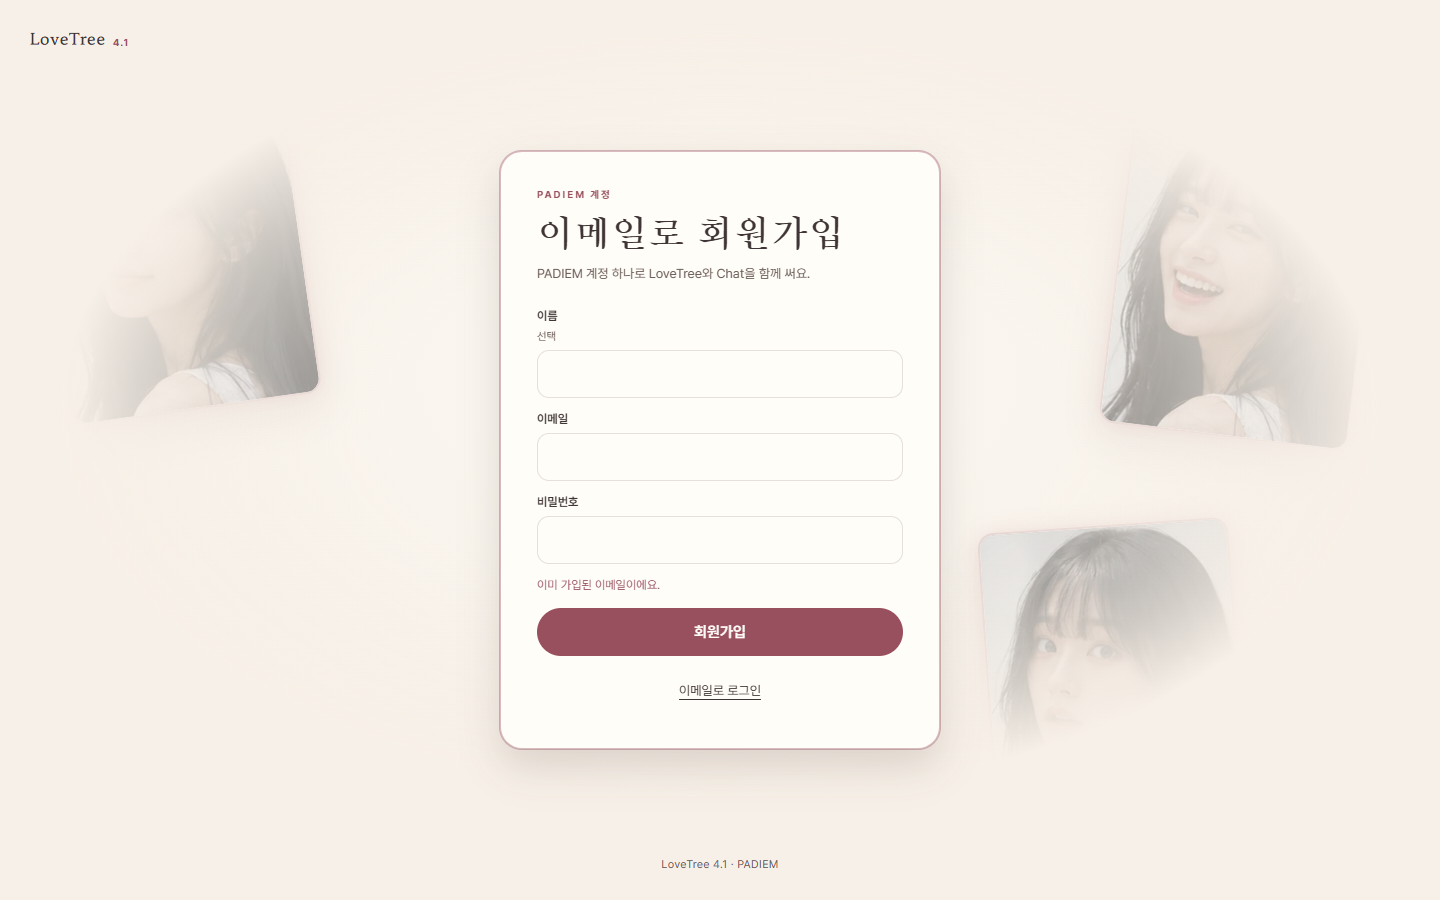
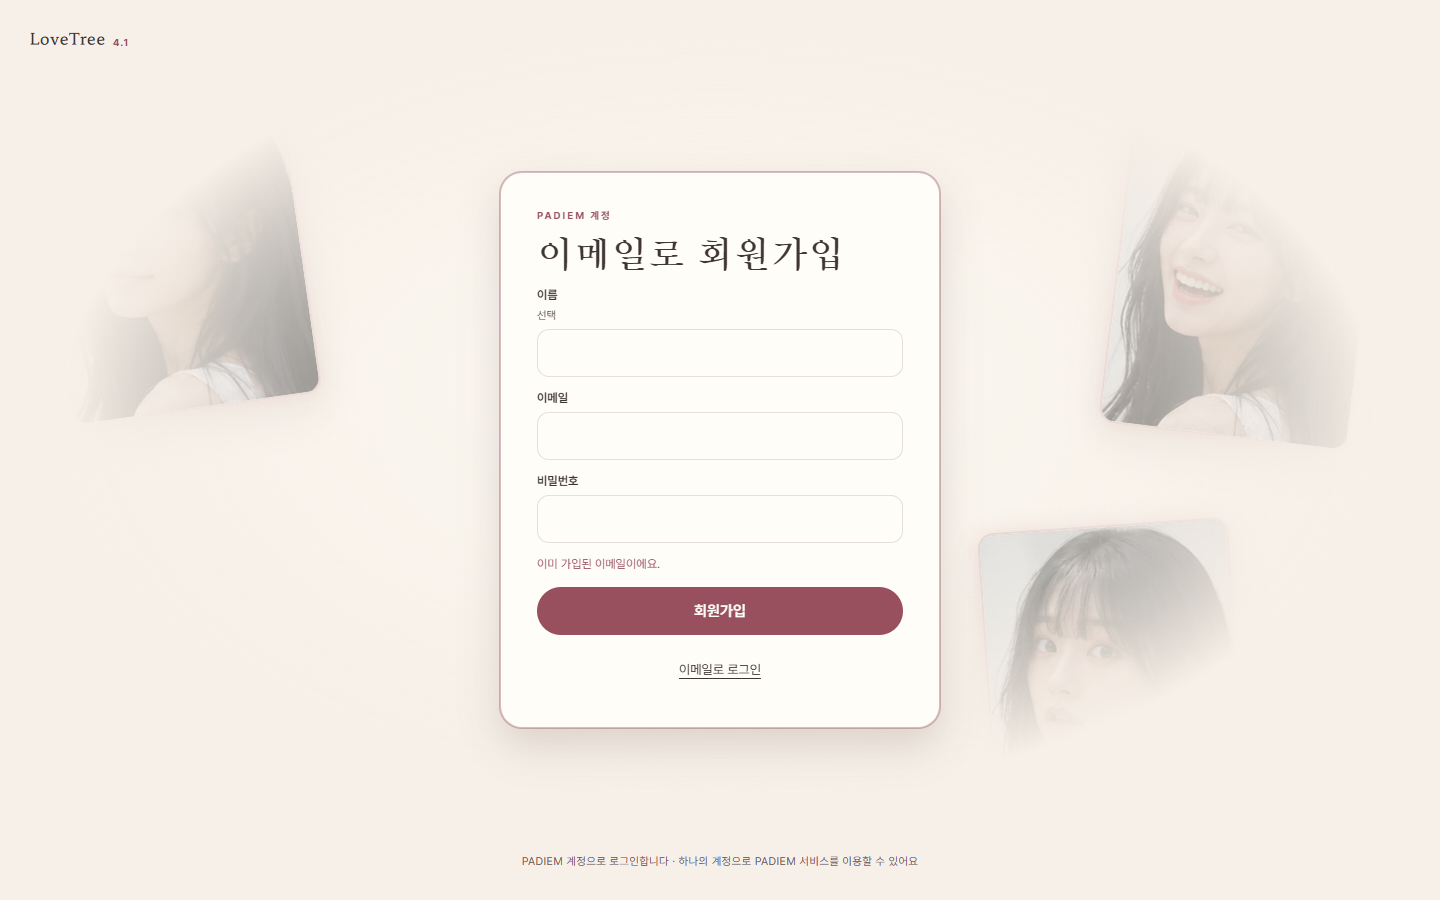
fix(auth): 공용 로그인으로 테마를 넘기고 시안 문구를 통일한다 (#261108)
공통 로그인 PR #7161이 기다리는 테마 전달 누락을 고친다.

/auth/login 테마 전달
- 들어온 요청의 lt_theme가 night 또는 garden일 때만 auth.padiem.net/login
  주소에 lt_theme로 붙인다.
- 그 외 값·없음·중복이면 붙이지 않는다. 공용 쪽 기본이 night이다.
- client_id·redirect_uri·state·code_challenge와 state 봉인·next 검사는 그대로.

시안 문구 통일(docs/design/auth-skin)
- 제목 아래 설명 줄을 뺐다.
- 하단 한 줄로 통일: "PADIEM 계정으로 로그인합니다 · 하나의 계정으로 PADIEM 서비스를 이용할 수 있어요"
  (로그인·가입 × 밤·정원 네 화면 모두)
- .lead 규칙 제거, .foot은 390에서 줄바꿈되도록 고정 폭을 풀었다.
- 스크린샷 8장과 README 갱신.

시험
- tests/shared-auth-pages.test.mjs: garden/night 통과, evil·대문자·빈 값·중복·없음은 미전달,
  나머지 파라미터와 state 봉인·next 복귀 유지
- tests/v41-auth-skin.test.mjs: 네 화면의 하단 한 줄 고정, 설명 줄·옛 문구 금지

diff --git a/docs/design/auth-skin/auth-skin.css b/docs/design/auth-skin/auth-skin.css
@@ -202,13 +202,6 @@ body.garden h1 {
   font-weight: 700;
   letter-spacing: .01em;
 }
-.lead {
-  margin: 10px 0 24px;
-  color: var(--lt-muted);
-  font-size: 13px;
-  line-height: 1.75;
-  overflow-wrap: anywhere;
-}
 
 .btn {
   display: flex;
@@ -346,10 +339,14 @@ body.garden .alt-link { color: var(--lt-ink); }
   bottom: 18px;
   left: 50%;
   transform: translateX(-50%);
+  width: max-content;
+  max-width: calc(100% - 48px);
   color: var(--lt-muted);
   font-size: 11px;
+  line-height: 1.6;
   letter-spacing: .04em;
-  white-space: nowrap;
+  text-align: center;
+  overflow-wrap: anywhere;
 }
 
 @media (max-width: 680px) {
@@ -360,7 +357,6 @@ body.garden .alt-link { color: var(--lt-ink); }
   .o2 { right: -28px; top: 9%; }
   .o3 { right: 8%; bottom: 2%; width: 104px; height: 137px; }
   .auth-card { width: 100%; padding: 25px 22px; border-radius: 18px; }
-  .lead { margin-bottom: 18px; }
-  .foot { position: static; transform: none; margin-top: 20px; text-align: center; white-space: normal; }
+  .foot { position: static; transform: none; width: auto; max-width: none; margin-top: 20px; text-align: center; }
   .divider { margin-top: 16px; }
 }

diff --git a/docs/design/auth-skin/login-garden.html b/docs/design/auth-skin/login-garden.html
@@ -9,7 +9,6 @@
 <main class="auth-card" aria-labelledby="login-title">
 <p class="eyebrow">PADIEM 계정</p>
 <h1 id="login-title">LoveTree에 로그인</h1>
-<p class="lead">PADIEM 계정으로 Chat 등 다른 서비스도 함께 쓸 수 있어요.</p>
 <a class="btn google" href="#google"><img class="g-logo" src="assets/googleg-standard-color.svg" alt="" width="18" height="18">Google 계정으로 계속</a>
 <div class="divider"><span>또는 이메일로</span></div>
 <form onsubmit="return false">
@@ -20,6 +19,6 @@
 </form>
 <a class="alt-link" href="signup-garden.html">이메일로 회원가입</a>
 </main>
-<p class="foot">LoveTree 4.1 · PADIEM</p>
+<p class="foot">PADIEM 계정으로 로그인합니다 · 하나의 계정으로 PADIEM 서비스를 이용할 수 있어요</p>
 </div>
 </body></html>

diff --git a/docs/design/auth-skin/login-night.html b/docs/design/auth-skin/login-night.html
@@ -9,7 +9,6 @@
 <main class="auth-card" aria-labelledby="login-title">
 <p class="eyebrow">PADIEM 계정</p>
 <h1 id="login-title">LoveTree에 로그인</h1>
-<p class="lead">PADIEM 계정으로 Chat 등 다른 서비스도 함께 쓸 수 있어요.</p>
 <a class="btn google" href="#google"><img class="g-logo" src="assets/googleg-standard-color.svg" alt="" width="18" height="18">Google 계정으로 계속</a>
 <div class="divider"><span>또는 이메일로</span></div>
 <form onsubmit="return false">
@@ -20,6 +19,6 @@
 </form>
 <a class="alt-link" href="signup-night.html">이메일로 회원가입</a>
 </main>
-<p class="foot">LoveTree 4.1 · PADIEM</p>
+<p class="foot">PADIEM 계정으로 로그인합니다 · 하나의 계정으로 PADIEM 서비스를 이용할 수 있어요</p>
 </div>
 </body></html>

diff --git a/docs/design/auth-skin/signup-garden.html b/docs/design/auth-skin/signup-garden.html
@@ -9,7 +9,6 @@
 <main class="auth-card" aria-labelledby="signup-title">
 <p class="eyebrow">PADIEM 계정</p>
 <h1 id="signup-title">이메일로 회원가입</h1>
-<p class="lead">PADIEM 계정 하나로 LoveTree와 Chat을 함께 써요.</p>
 <form onsubmit="return false">
 <label class="field">이름 <small>선택</small><input type="text" name="name" autocomplete="name"></label>
 <label class="field">이메일<input type="email" name="email" autocomplete="username" required></label>
@@ -19,6 +18,6 @@
 </form>
 <a class="alt-link" href="login-garden.html">이메일로 로그인</a>
 </main>
-<p class="foot">LoveTree 4.1 · PADIEM</p>
+<p class="foot">PADIEM 계정으로 로그인합니다 · 하나의 계정으로 PADIEM 서비스를 이용할 수 있어요</p>
 </div>
 </body></html>

diff --git a/docs/design/auth-skin/signup-night.html b/docs/design/auth-skin/signup-night.html
@@ -9,7 +9,6 @@
 <main class="auth-card" aria-labelledby="signup-title">
 <p class="eyebrow">PADIEM 계정</p>
 <h1 id="signup-title">이메일로 회원가입</h1>
-<p class="lead">PADIEM 계정 하나로 LoveTree와 Chat을 함께 써요.</p>
 <form onsubmit="return false">
 <label class="field">이름 <small>선택</small><input type="text" name="name" autocomplete="name"></label>
 <label class="field">이메일<input type="email" name="email" autocomplete="username" required></label>
@@ -19,6 +18,6 @@
 </form>
 <a class="alt-link" href="login-night.html">이메일로 로그인</a>
 </main>
-<p class="foot">LoveTree 4.1 · PADIEM</p>
+<p class="foot">PADIEM 계정으로 로그인합니다 · 하나의 계정으로 PADIEM 서비스를 이용할 수 있어요</p>
 </div>
 </body></html>

diff --git a/docs/design/auth-skin/README.md b/docs/design/auth-skin/README.md
@@ -99,15 +99,23 @@
 | 입력 높이 | `48px`, `border-radius: 12px` |
 | 포커스 | `outline: 2px solid var(--lt-gold); outline-offset: 3px` (입력은 금색 테두리 + `0 0 0 3px var(--lt-gold-line)`) |
 | 제목 | 밤 `clamp(28px,4vw,34px)`, 정원 `clamp(30px,4.2vw,36px)` Gowun Batang |
+| 하단 한 줄 | `.foot` 11px, `--lt-muted`, 1440은 아래 18px 고정·390은 카드 아래 흐름 |
 | 궤도 카드 | 3장, `opacity: .58`(밤) / `.48`(정원), blur 없음 |
 | 390 | 카드 `100%`, 바깥 여백 `16px`, 궤도 카드 가장자리 배치 |
 
 ## 공용 로그인 팀 연결
 
 - `html[data-lt-theme="garden"]`(또는 동등한 `body.garden`)에서 정원 토큰으로 바꾸고, 밤은 기본 토큰을 씁니다.
-- 제목은 "LoveTree에 로그인", 그 아래 "PADIEM 계정으로 Chat 등 다른 서비스도 함께 쓸 수 있어요"를 유지합니다.
+- 제목은 "LoveTree에 로그인", 그 아래 설명 줄 없이 바로 로그인 버튼이 옵니다.
+- 하단 한 줄은 네 화면(로그인·가입 × 밤·정원) 모두 같습니다:
+  "PADIEM 계정으로 로그인합니다 · 하나의 계정으로 PADIEM 서비스를 이용할 수 있어요".
+  이전의 제목 아래 설명 줄("PADIEM 계정으로 Chat 등 다른 서비스도 함께 쓸 수 있어요" /
+  "PADIEM 계정 하나로 LoveTree와 Chat을 함께 써요")과 하단 "LoveTree 4.1 · PADIEM"은 없어졌습니다.
 - 요소는 현재 auth 화면과 같습니다: Google 계정으로 계속, 이메일·비밀번호, 이메일로 로그인, 이메일로 회원가입, 오류 문구 자리. 회원가입은 이름(선택)·이메일·비밀번호·회원가입입니다.
 - 러브트리 쪽은 `/auth/login`으로 보낼 때 `lt_theme=night|garden`만 붙입니다. 인증 쪽이 아직 무시해도 동작에 영향이 없습니다.
+  `functions/_lib/shared-auth.mjs`의 `/auth/login` 처리에서 들어온 `lt_theme`가 `night`·`garden`일 때만
+  `auth.padiem.net/login` 주소에 그대로 붙입니다. 그 외 값·없음·중복이면 붙이지 않아 공용 쪽 기본(night)을 따릅니다.
+  `client_id`·`redirect_uri`·`state`·`code_challenge`와 state 봉인·`next` 검사는 그대로입니다.
 - 로그인 직전 안내 창의 `next`에는 `intent=new-tree|shelf`만 붙습니다. 로그인·가입 뒤 `next`를 보존하면 첫 여정/내 책장으로 바로 이어집니다.
 - `next`는 로컬 경로만 허용하고, `intent`는 `new-tree`·`shelf` 외 값을 무시합니다.
 
